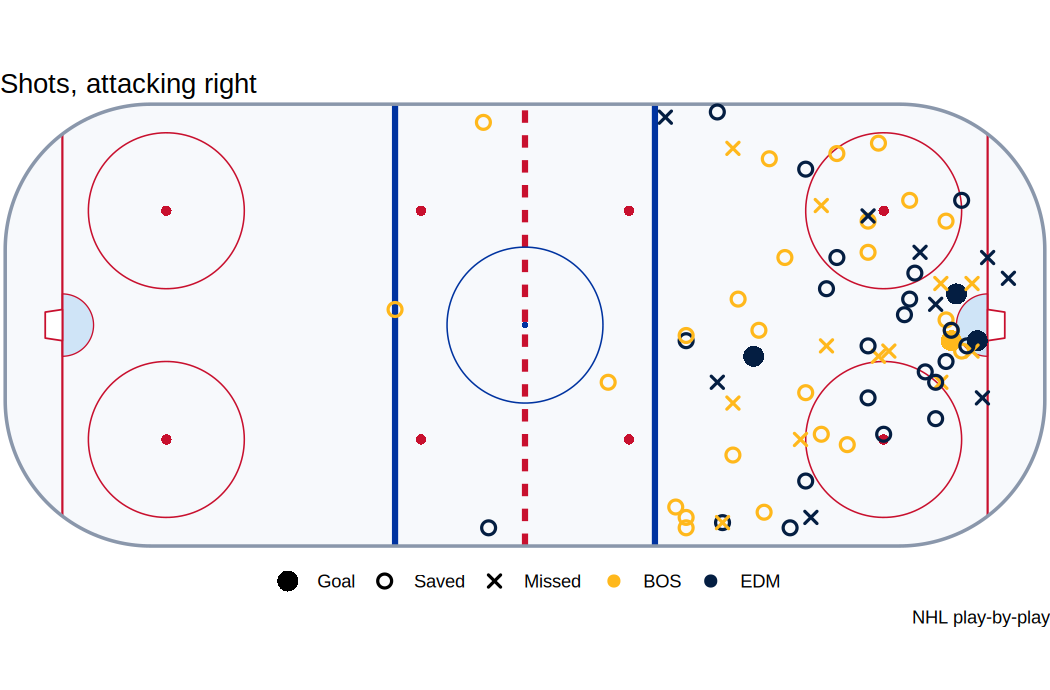
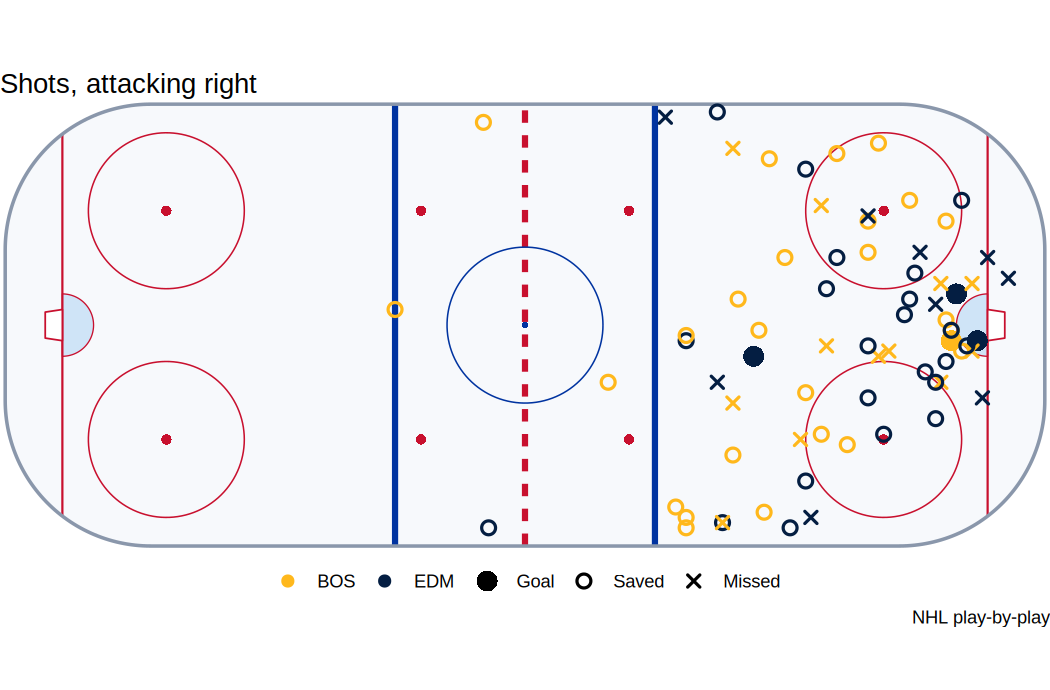
Game tracking summaries: speed, distance, zone time and puck possession
nhl_tracking_summary(), nhl_tracking_player_stats() and
nhl_tracking_entities() read the per-game tracking files NHL.com's
tracking module loads from live.nhle.com/ppt/{season}/{game}: each
player's top and average speed, distance, zone time and zone starts and
his puck possession time (in all, by zone, by strength), each club's
possession share by zone and strength, ice time by strength, faceoffs by
zone and every shift. They exist for most games from 2021-22 to 2023-24
and some of 2020-21 and 2024-25.

Strength suffixes now read as one token in names (toi_5v5,
save_pctg_5v5_details).

Changed region(s): [[0.2438, 0.8217, 0.7619, 0.8522]]

diff --git a/README.md b/README.md
@@ -36,7 +36,7 @@ pak::pak("ethanrawson/bluelineR")
 library(bluelineR)
 
 nhl_scores("2026-10-20")[, c("id", "away_team_abbrev", "away_team_score", "home_team_abbrev", "home_team_score")]
-#> # A tibble: 11 x 5
+#> # A tibble: 11 × 5
 #>           id away_team_abbrev away_team_score home_team_abbrev home_team_score
 #>        <int> <chr>                      <int> <chr>                      <int>
 #> 1 2026020141 SJS                            4 MTL                            3
@@ -44,7 +44,7 @@ nhl_scores("2026-10-20")[, c("id", "away_team_abbrev", "away_team_score", "home_
 #> 3 2026020143 ANA                            2 NYI                            3
 #> 4 2026020144 LAK                            5 WSH                            2
 #> 5 2026020145 TOR                            6 CBJ                            2
-#> # i 6 more rows
+#> # ℹ 6 more rows
 ```
 
 Play-by-play comes back one row per event, with the clock in seconds,
@@ -54,7 +54,7 @@ turned so the shooting team always attacks to the right:
 ``` r
 pbp <- nhl_pbp(2025020534)
 pbp[pbp$type == "goal", c("period", "time_in_period", "event_team", "strength_state", "player_1_name", "x_fixed", "y_fixed")]
-#> # A tibble: 4 x 7
+#> # A tibble: 4 × 7
 #>   period time_in_period event_team strength_state player_1_name       x_fixed y_fixed
 #>    <int> <chr>          <chr>      <chr>          <chr>                 <dbl>   <dbl>
 #> 1      1 13:38          EDM        5v4            Ryan Nugent-Hopkins      44      -6
@@ -79,7 +79,7 @@ puck per frame, in feet:
 ``` r
 frames <- nhl_goal_tracking(2025020534, 777)
 frames
-#> # A tibble: 1,683 x 9
+#> # A tibble: 1,683 × 9
 #>   frame  time entity_id is_puck player_id sweater_number team      x       y
 #>   <int> <dbl>     <dbl> <lgl>       <dbl>          <dbl> <chr> <dbl>   <dbl>
 #> 1     1     0         1 TRUE           NA             NA <NA>   77.9 -30.7  
@@ -87,7 +87,7 @@ frames
 #> 3     1     0      6018 FALSE     8478401             18 BOS    81.0  -4.75 
 #> 4     1     0      6028 FALSE     8477496             28 BOS    54.4  -0.288
 #> 5     1     0      6039 FALSE     8479987             39 BOS    57.7  15.4  
-#> # i 1,678 more rows
+#> # ℹ 1,678 more rows
 ```
 
 `classify_goal()` reads how it was scored. The same rules build the goal
@@ -96,7 +96,7 @@ types on BluelineMetrics, and the R port matches them goal for goal:
 ``` r
 goal <- classify_goal(frames, team = "EDM", shot_type = "backhand")
 goal[, c("shooter", "distance", "shot_speed", "since_neutral", "kinds")]
-#> # A tibble: 1 x 5
+#> # A tibble: 1 × 5
 #>   shooter distance shot_speed since_neutral kinds          
 #>     <dbl>    <dbl>      <dbl>         <dbl> <chr>          
 #> 1 8478402      7.5       24.1           2.8 rush, breakaway
@@ -114,11 +114,40 @@ plot_goal_sequence(frames, n = 6, seconds = 5)
 
 <img src="man/figures/README-sequence-1.png" alt="Six frames leading up to the goal." width="100%" />
 
+## Game tracking summaries
+
+For 2021-22 to 2023-24 (and some of 2020-21 and 2024-25) the NHL’s
+tracking vendor left a summary of every game: each player’s skating
+speed, distance, zone time and zone starts, and **his puck possession
+time**, in all, by zone and by strength, with each club’s possession
+share. Individual possession is not in NHL EDGE.
+
+``` r
+tr <- nhl_tracking_summary(2023020500)
+tr$teams[, c("team", "possession_pct", "possession_pct_o_zone", "possession_pct_d_zone")]
+#> # A tibble: 2 × 4
+#>   team  possession_pct possession_pct_o_zone possession_pct_d_zone
+#>   <chr>          <dbl>                 <dbl>                 <dbl>
+#> 1 FLA             51.5                  45.4                  34.4
+#> 2 STL             48.5                  38.4                  42.0
+top <- tr$players[order(-tr$players$possession_time), ]
+top[, c("name", "team", "time_on_total", "possession_time", "possession_time_o_zone", "speed_max_mph", "distance_miles")]
+#> # A tibble: 40 × 7
+#>   name       team  time_on_total possession_time possession_time_o_zone speed_max_mph distance_miles
+#>   <chr>      <chr>         <int>           <int>                  <int>         <dbl>          <dbl>
+#> 1 Colton Pa… STL            1339              61                      5          20.7           3.28
+#> 2 Brandon M… FLA            1704              57                     15          20.9           3.64
+#> 3 Aaron Ekb… FLA             899              54                      8          20.2           3.27
+#> 4 Jordan Ky… STL             960              48                     25          20.9           2.93
+#> 5 Sam Reinh… FLA             759              45                     18          20.7           2.99
+#> # ℹ 35 more rows
+```
+
 ## NHL EDGE
 
 ``` r
 nhl_edge_leaders("skater_speed", season = "2025-26")[, c("rank", "player_first_name", "player_last_name", "player_team_abbrev", "max_speed_imperial", "bursts_over22")]
-#> # A tibble: 10 x 6
+#> # A tibble: 10 × 6
 #>    rank player_first_name player_last_name player_team_abbrev max_speed_imperial bursts_over22
 #>   <int> <chr>             <chr>            <chr>                           <dbl>         <int>
 #> 1     1 Beck              Malenstyn        BUF                              24.9            14
@@ -126,23 +155,23 @@ nhl_edge_leaders("skater_speed", season = "2025-26")[, c("rank", "player_first_n
 #> 3     3 Connor            McDavid          EDM                              24.6           151
 #> 4     4 Logan             Cooley           UTA                              24.4            33
 #> 5     5 Jake              Sanderson        OTT                              24.4            31
-#> # i 5 more rows
+#> # ℹ 5 more rows
 
 mcdavid <- nhl_edge_skater(8478402, "2025-26")
 mcdavid$info[, c("skating_speed_speed_max_imperial", "skating_speed_speed_max_percentile", "top_shot_speed_imperial", "total_distance_skated_imperial")]
-#> # A tibble: 1 x 4
-#>   skating_speed_speed_max_imp~1 skating_speed_speed_~2 top_shot_speed_imper~3 total_distance_skate~4
+#> # A tibble: 1 × 4
+#>   skating_speed_speed_max_imp…¹ skating_speed_speed_…² top_shot_speed_imper…³ total_distance_skate…⁴
 #>                           <dbl>                  <dbl>                  <dbl>                  <dbl>
 #> 1                          24.6                  0.997                   82.0                   330.
-#> # i abbreviated names: 1: skating_speed_speed_max_imperial, 2: skating_speed_speed_max_percentile,
-#> #   3: top_shot_speed_imperial, 4: total_distance_skated_imperial
+#> # ℹ abbreviated names: ¹skating_speed_speed_max_imperial, ²skating_speed_speed_max_percentile,
+#> #   ³top_shot_speed_imperial, ⁴total_distance_skated_imperial
 ```
 
 ## The stats API
 
 ``` r
 nhl_stats("skater/summary", "2025-26", sort = "points", limit = 5)[, c("skater_full_name", "team_abbrevs", "goals", "assists", "points")]
-#> # A tibble: 5 x 5
+#> # A tibble: 5 × 5
 #>   skater_full_name  team_abbrevs goals assists points
 #>   <chr>             <chr>        <int>   <int>  <int>
 #> 1 Connor McDavid    EDM             48      90    138
@@ -159,6 +188,7 @@ nhl_stats("skater/summary", "2025-26", sort = "points", limit = 5)[, c("skater_f
 | Scores, schedule, standings | `nhl_scores()`, `nhl_schedule()`, `nhl_team_schedule()`, `nhl_standings()`                                                                  | `api-web.nhle.com/v1/score`, `/schedule`, `/club-schedule-season`, `/standings`                    |
 | Games                       | `nhl_pbp()`, `nhl_boxscore()`, `nhl_game()`, `nhl_shifts()`                                                                                 | `/gamecenter/{id}/play-by-play`, `/boxscore`, `/landing`; `api.nhle.com/stats/rest/en/shiftcharts` |
 | Goal tracking               | `nhl_goal_tracking()`, `nhl_goal_replay()`, `goal_frame()`, `classify_goal()`, `goal_context()`, `skater_speed()`, `plot_goal()`            | `wsr.nhle.com/sprites/{season}/{game}/ev{event}.json`, `/ppt-replay/goal`                          |
+| Game tracking summaries     | `nhl_tracking_summary()`, `nhl_tracking_player_stats()`, `nhl_tracking_entities()`                                                          | `live.nhle.com/ppt/{season}/{game}/` (2021-22 to 2023-24, some of 2020-21 and 2024-25)             |
 | NHL EDGE                    | `nhl_edge_skater()`, `nhl_edge_goalie()`, `nhl_edge_team()`, `nhl_edge_leaders()`, `nhl_edge_landing()`, `nhl_edge_by_the_numbers()`        | `/edge/...` (20 reports)                                                                           |
 | Players and clubs           | `nhl_player()`, `nhl_player_game_log()`, `nhl_player_search()`, `nhl_roster()`, `nhl_prospects()`, `nhl_team_stats()`, `nhl_stat_leaders()` | `/player`, `/roster`, `/prospects`, `/club-stats`, `/skater-stats-leaders`; `search.d3.nhle.com`   |
 | Draft                       | `nhl_draft_rankings()`, `nhl_draft_picks()`                                                                                                 | `/draft/rankings`, `/draft/picks`                                                                  |

diff --git a/NEWS.md b/NEWS.md
@@ -1,3 +1,9 @@
+# bluelineR (development version)
+
+* `nhl_tracking_summary()`, `nhl_tracking_player_stats()` and `nhl_tracking_entities()` read the game
+  tracking files at `live.nhle.com/ppt`: each player's speed, distance, zone time, zone starts and puck
+  possession time, each club's possession by zone and strength, ice time by strength and every shift.
+
 # bluelineR 0.1.0
 
 * First release: scores, schedules, standings, play-by-play, box scores and shift charts; players,
